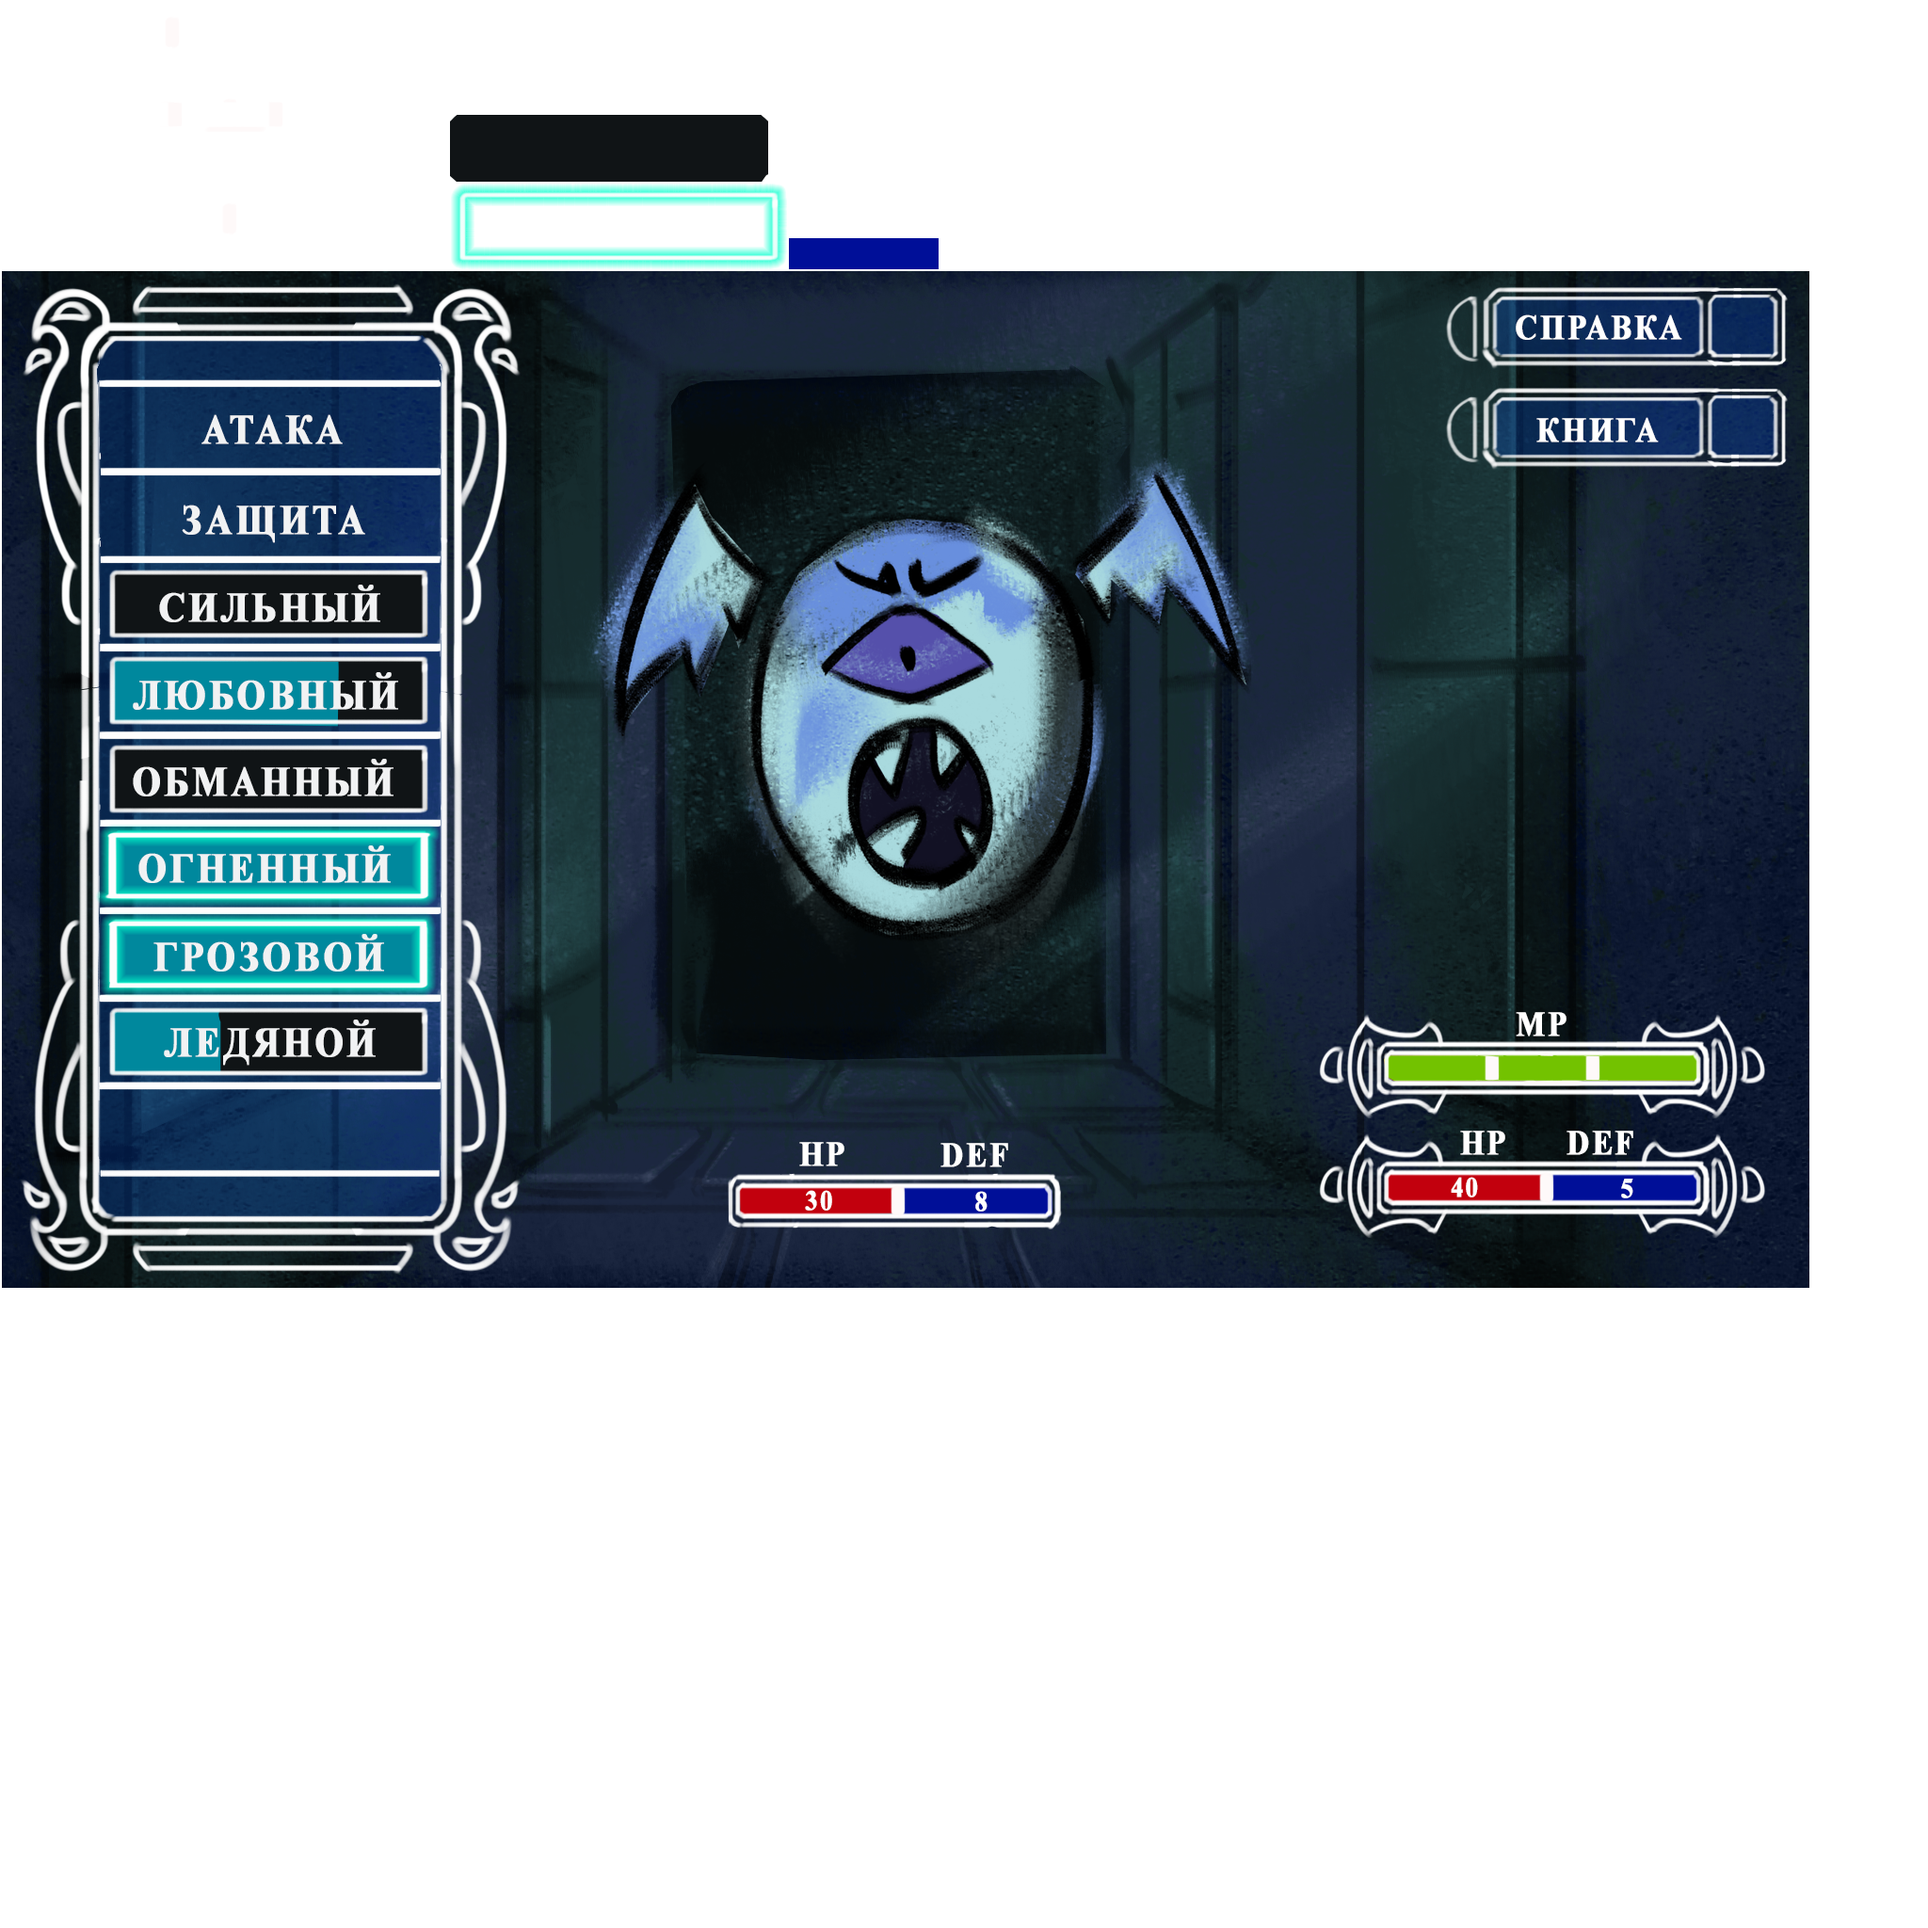
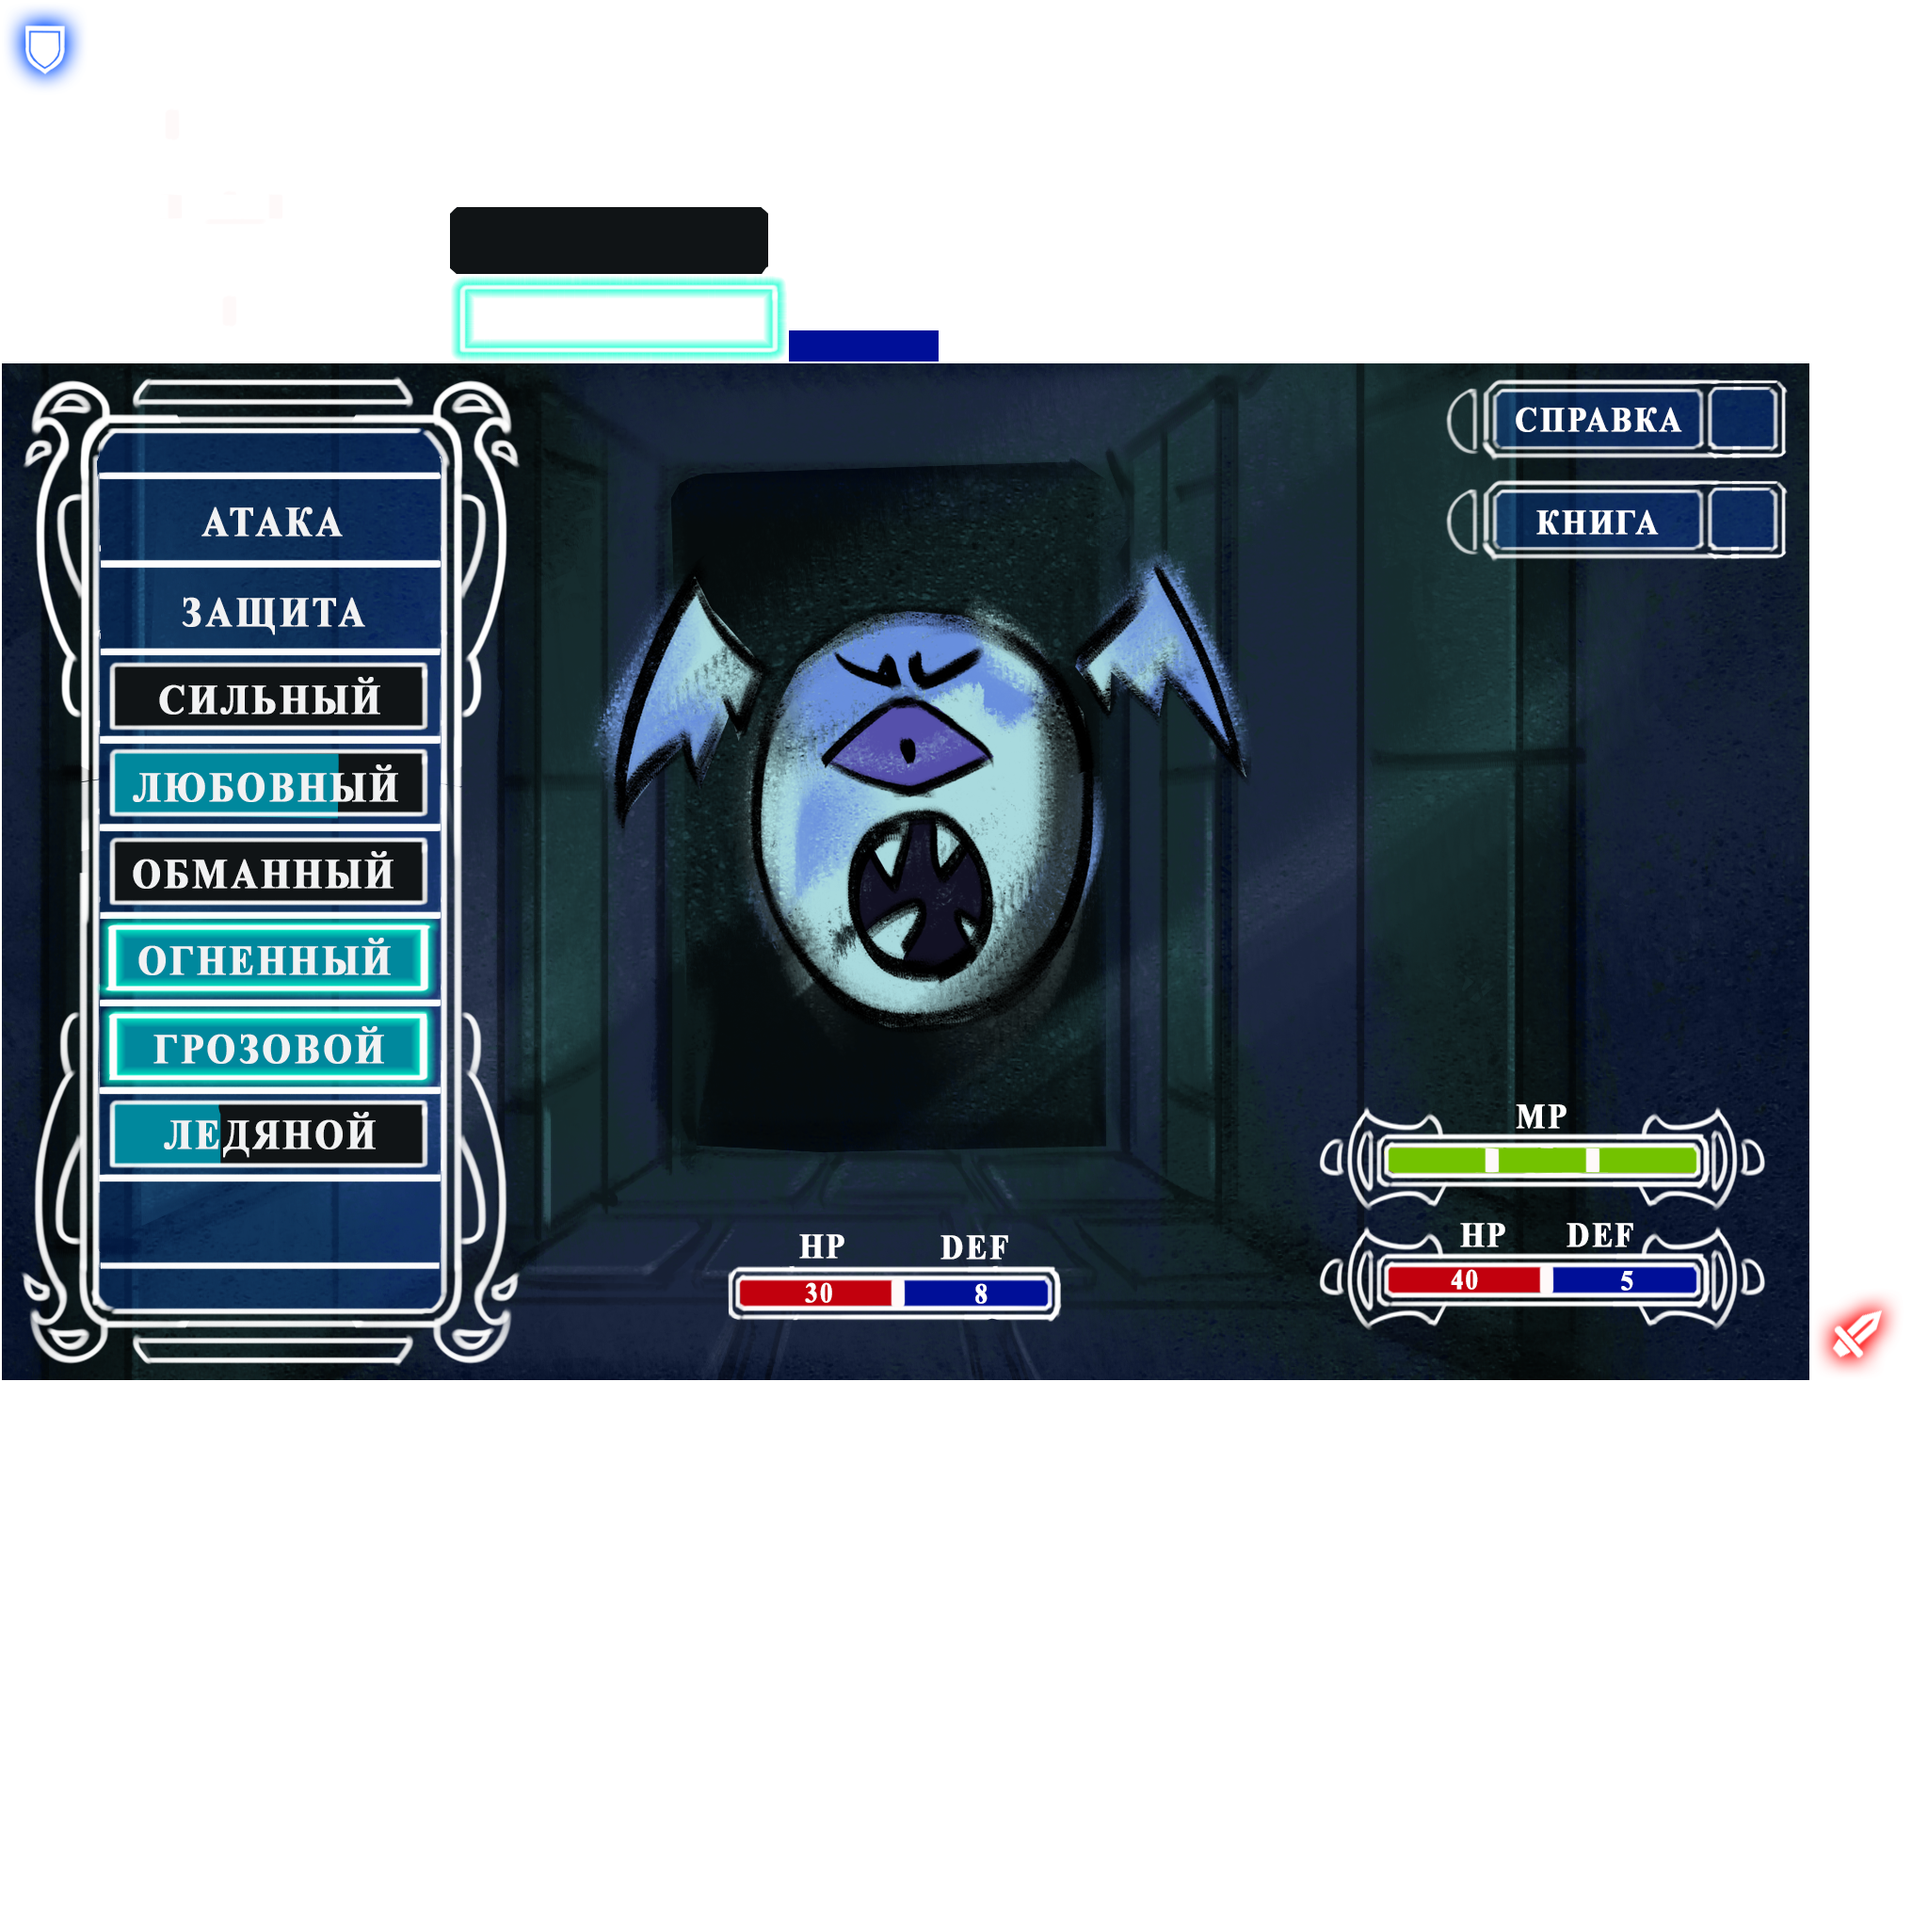
Гуй

Changed region(s): [[0.0, 0.0625, 1.0, 0.7188], [0.0, 0.0, 0.0625, 0.0625], [0.625, 0.5, 0.6562, 0.5312]]

diff --git a/core/src/com/d954mas/game/indicator2019/speech/screnes/game/GameUI.java b/core/src/com/d954mas/game/indicator2019/speech/screnes/game/GameUI.java
@@ -47,6 +47,9 @@ public class GameUI {
     private Label enemyDefence;
     private Label heroHp;
     private Label heroDefence;
+    private Actor enemyIntentDefence;
+    private Actor enemyIntentAttack;
+    private Label enemyIntentText;
 
     public GameUI(Stage stage){
         debugWords = new ArrayList<>();
@@ -84,7 +87,7 @@ public class GameUI {
         enemyData.add(enemyDefence).expandX();
         enemyData.setPosition(0,80);
 
-        bgEnemyGroup.addActor(bgEnemy);
+        //bgEnemyGroup.addActor(bgEnemy);
         bgEnemyGroup.addActor(enemyData);
 
 
@@ -94,13 +97,16 @@ public class GameUI {
         ResUi.res.atlas_atlas.plashka_hp_def_player.getTexture().setFilter(Texture.TextureFilter.Linear, Texture.TextureFilter.Linear);
         heroHp = new Label("HP:", ResDebug.res.uiskin_json,"big");
         heroDefence = new Label("Def:", ResDebug.res.uiskin_json,"big");
+        Label lbl = new Label("Hero:", ResDebug.res.uiskin_json,"big");
+
 
         Table heroData = new Table();
         heroData.setSize(bgHeroHp.getWidth(),bgHeroHp.getHeight());
+        heroData.add(lbl).colspan(2).row();
         heroData.add(heroHp).expandX();
         heroData.add(heroDefence).expandX();
-        heroData.setPosition(0,80);
-        bgHeroHpGroup.addActor(bgHeroHp);
+        heroData.setPosition(0,1080-300);
+       // bgHeroHpGroup.addActor(bgHeroHp);
         bgHeroHpGroup.addActor(heroData);
 
         Group bgHeroManaGroup = new Group();
@@ -109,13 +115,28 @@ public class GameUI {
         ResUi.res.atlas_atlas.plashka_mp.getTexture().setFilter(Texture.TextureFilter.Linear, Texture.TextureFilter.Linear);
         Label mpText = new Label("MP", ResDebug.res.uiskin_json);
         mpText.setPosition(bgHeroMana.getWidth()/2-mpText.getWidth()/2,80);
-        bgHeroManaGroup.addActor(bgHeroMana);
-        bgHeroManaGroup.addActor(mpText);
+        //bgHeroManaGroup.addActor(bgHeroMana);
+       // bgHeroManaGroup.addActor(mpText);
 
         root.addActor(bgEnemyGroup);
         root.addActor(bgHeroHpGroup);
         root.addActor(bgHeroManaGroup);
         root.addActor(listWordBg);
+
+        Group group = new Group();
+        enemyIntentAttack = new Image(ResUi.res.atlas_atlas.monster_attack_icon);
+        enemyIntentAttack.setScale(2);
+        enemyIntentDefence = new Image(ResUi.res.atlas_atlas.monster_def_icon);
+        enemyIntentDefence.setScale(2);
+        enemyIntentText = new Label("12",ResDebug.res.uiskin_json,"big");
+        enemyIntentText.setPosition(-30,55);
+        group.setPosition(Constants.GAME_WIDTH/2-enemyIntentAttack.getWidth()/2,800);
+        group.addActor(enemyIntentAttack);
+        group.addActor(enemyIntentDefence);
+        group.addActor(enemyIntentText);
+
+        root.addActor(group);
+
 
         Actor debugScene = new Image(ResUi.res.atlas_atlas.ui);
         debugScene.getColor().a = 0.44f;
@@ -209,6 +230,15 @@ public class GameUI {
         enemyHp.setText("Hp:" + World.get().currentEnemy.hp);
         heroHp.setText("Hp:" + World.get().heroHp);
         heroDefence.setText("Def:" + World.get().heroDefence);
+        if(World.get().currentEnemy.attack){
+            enemyIntentText.setText(World.get().currentEnemy.attackValue);
+            enemyIntentDefence.setVisible(false);
+            enemyIntentAttack.setVisible(true);
+        }else{
+            enemyIntentDefence.setVisible(true);
+            enemyIntentAttack.setVisible(false);
+            enemyIntentText.setText(World.get().currentEnemy.defenceValue);
+        }
     }
 
     public void updateWords(){
@@ -229,9 +259,9 @@ public class GameUI {
             });
             lbl.setUserObject(word);
             labels.add(lbl);
-            wordsTable.add(lbl).space(42).row();
+            wordsTable.add(lbl).space(43).row();
         }
-        wordsTable.setPosition(260,1080-wordsTable.getPrefHeight());
+        wordsTable.setPosition(260,1080-wordsTable.getPrefHeight()+145);
     }
 
     private void playWordDebug(MagicWord word){

diff --git a/core/src/com/d954mas/game/indicator2019/speech/model/World.java b/core/src/com/d954mas/game/indicator2019/speech/model/World.java
@@ -67,7 +67,10 @@ public class World {
                 MagicWords.attack,
                 MagicWords.defence,
                 MagicWords.fire,
-                MagicWords.ice));
+                MagicWords.ice,
+                MagicWords.lie,
+                MagicWords.love,
+                MagicWords.storm));
     }
 
     public void prepareBattle(){
@@ -119,11 +122,15 @@ public class World {
             //reduce attack
             damage = Math.max(0,damage-4);
         }
-        heroHp = Math.max(0,heroHp=damage);
+        heroHp = Math.max(0,heroHp-damage);
     }
 
     private void defenceHero(int defence){
         heroDefence = heroDefence + defence;
+    }
+
+    private void defenceEnemy(int defence){
+
     }
 
     private void addEffect(Effect effect){
@@ -204,12 +211,14 @@ public class World {
                 @Override
                 public void run() {
                     removeDebuffEffects();
-                    boolean enemyAttack = true;
+                    boolean enemyAttack = World.get().currentEnemy.attack;
                     if(effects.contains(Effects.IceAttackEffect) || effects.contains(Effects.IceDefenceEffect)){
 
                     }else {
                         if (enemyAttack) {
-                            attackHero(5);
+                            attackHero(World.get().currentEnemy.attackValue);
+                        }else{
+                            defenceEnemy(World.get().currentEnemy.defenceValue);
                         }
 
                         if (effects.contains(Effects.FireAttackEffect)) {

diff --git a/core/src/com/d954mas/game/indicator2019/speech/model/effects/Effects.java b/core/src/com/d954mas/game/indicator2019/speech/model/effects/Effects.java
@@ -10,8 +10,8 @@ public class Effects {
     public static DebuffEffect LoveAttackEffect = new DebuffEffect(1,"LoveAttack");
     public static BuffEffect LoveDefenceEffect = new BuffEffect(100500,"LoveDefence");
 
-    public static DebuffEffect IceAttackEffect = new DebuffEffect(1,"IceAttack");
-    public static DebuffEffect IceDefenceEffect = new DebuffEffect(1,"IceDefence");
+    public static BuffEffect IceAttackEffect = new BuffEffect(1,"IceAttack");
+    public static BuffEffect IceDefenceEffect = new BuffEffect(1,"IceDefence");
 
     public static DebuffEffect LieAttackEffect = new DebuffEffect(1,"LieAttack");
     public static DebuffEffect LieDefenceEffect = new DebuffEffect(1,"LieDefence");
